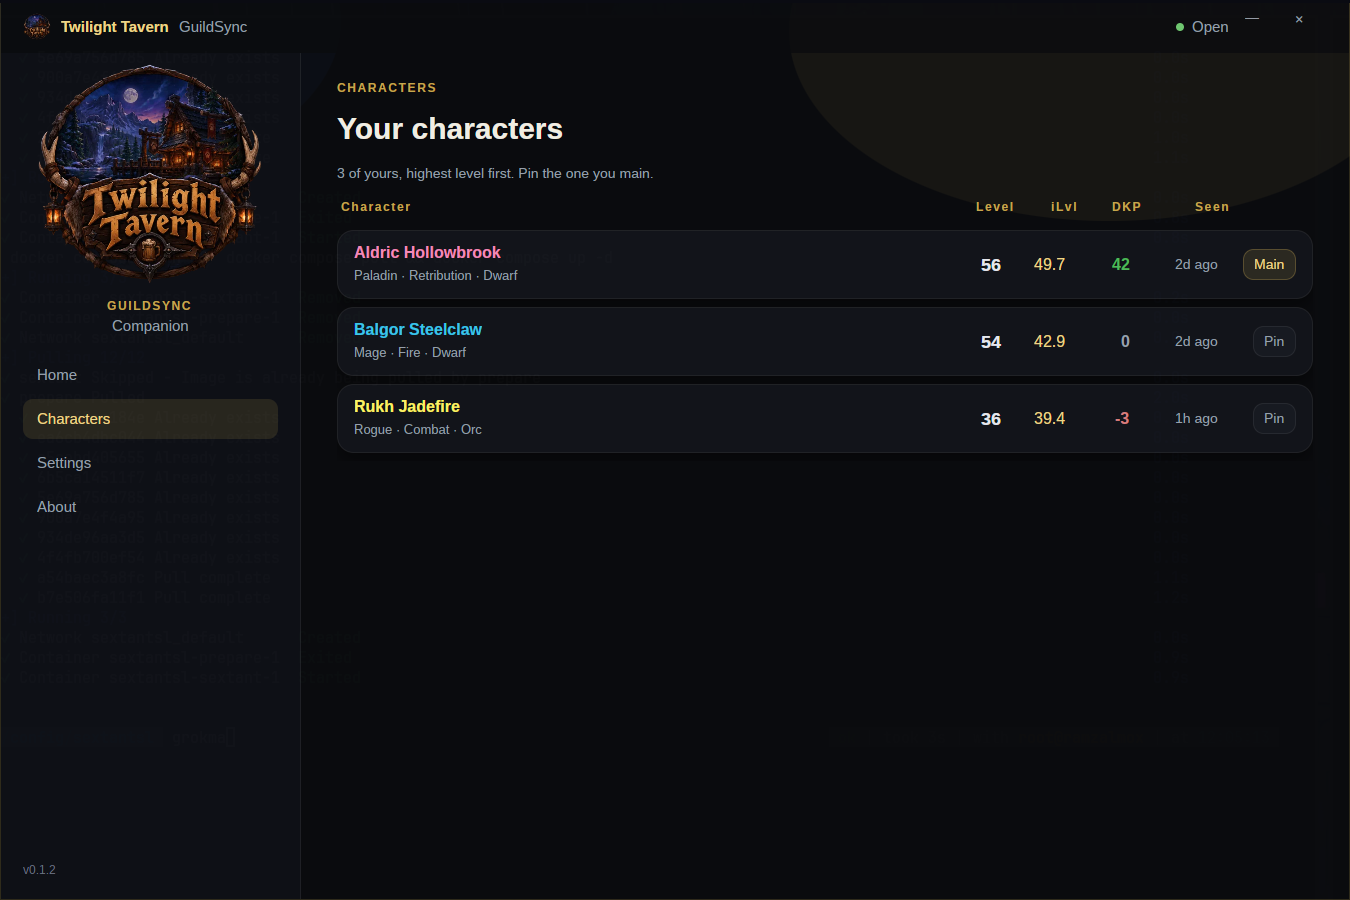
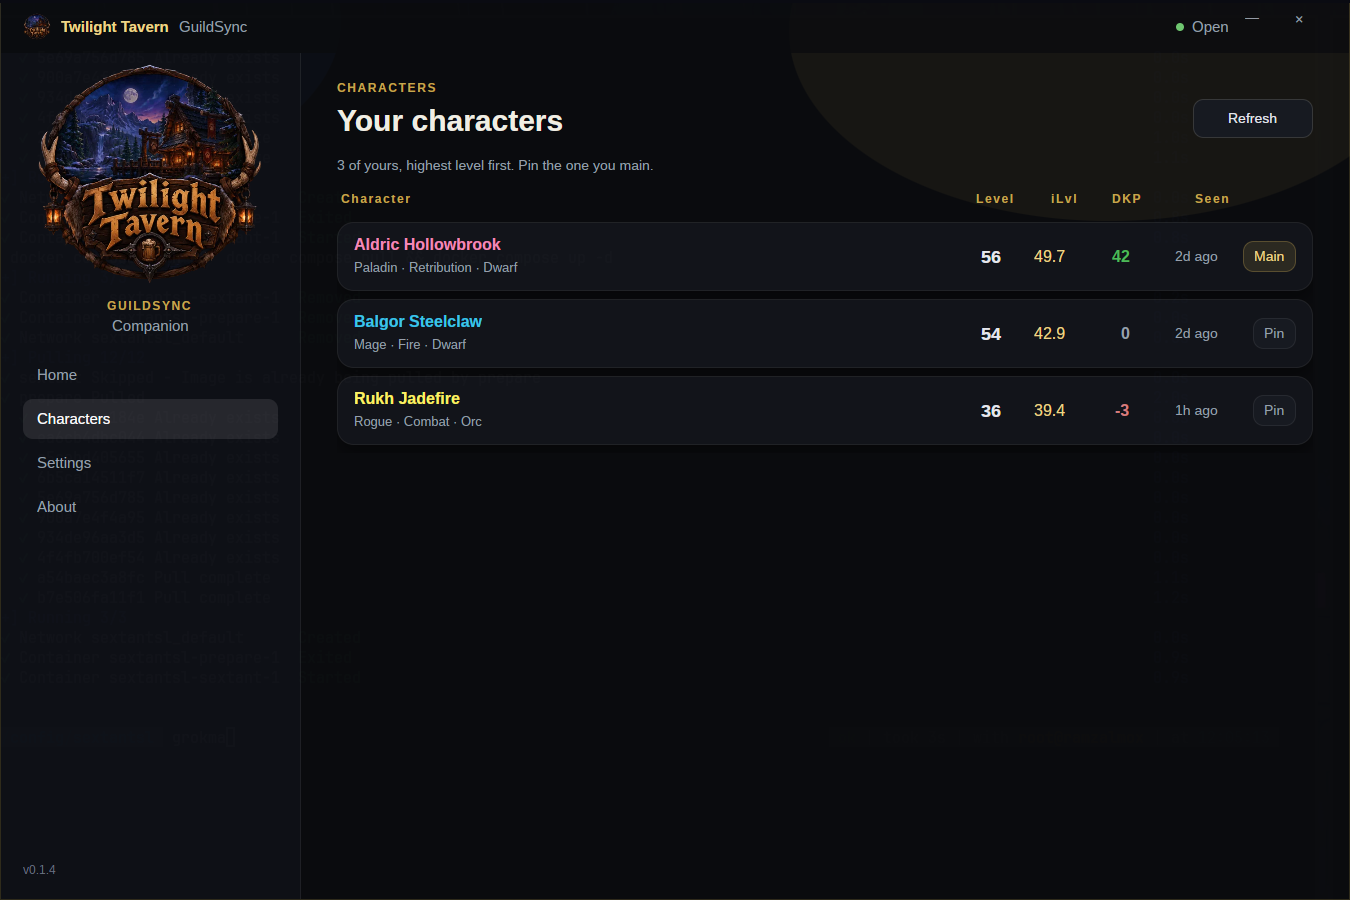
Refresh characters after a sync

diff --git a/src/GuildSync.Companion/ViewModels/ShellViewModel.cs b/src/GuildSync.Companion/ViewModels/ShellViewModel.cs
@@ -18,6 +18,8 @@ public partial class ShellViewModel : ObservableObject
     private List<RosterCharacter> _owned = [];
     private string _ownedStatus = "";
     private int? _previewMainId = 1560;
+    private int _characterLoad;
+    private DateTimeOffset? _appliedSyncUtc;
 
     public ShellViewModel(CompanionHost host, bool showOnLaunch)
     {
@@ -51,7 +53,7 @@ public partial class ShellViewModel : ObservableObject
         if (preview == "update")
         {
             UpdatePromptOpen = true;
-            UpdatePromptDetail = "Companion 0.1.5 is ready. GuildSync will close, install, and open again.";
+            UpdatePromptDetail = "Companion 0.1.6 is ready. GuildSync will close, install, and open again.";
         }
         if (preview == "characters")
             LoadCharacterPreview();
@@ -103,6 +105,7 @@ public partial class ShellViewModel : ObservableObject
     [ObservableProperty] private bool startWithWindows = true;
     [ObservableProperty] private string settingsMessage = "";
     [ObservableProperty] private string charactersStatus = "";
+    [ObservableProperty] private bool charactersBusy;
     [ObservableProperty] private bool updatePromptOpen;
     [ObservableProperty] private bool updatePromptBusy;
     [ObservableProperty] private string updatePromptDetail = "";
@@ -345,8 +348,11 @@ public partial class ShellViewModel : ObservableObject
 
         Page = "characters";
         Dialogs?.ShowWindow();
-        await LoadCharactersAsync().ConfigureAwait(true);
+        await LoadCharactersAsync(keepOnError: false).ConfigureAwait(true);
     }
+
+    [RelayCommand]
+    private Task RefreshCharactersAsync() => LoadCharactersAsync(keepOnError: _owned.Count > 0);
 
     [RelayCommand]
     private void ShowSettings()
@@ -659,6 +665,15 @@ public partial class ShellViewModel : ObservableObject
         Activity.Clear();
         foreach (var line in _host.ActivitySnapshot())
             Activity.Add(line);
+
+        // A sync just landed and this page is open. Pick up level, DKP, and last seen.
+        if (Page == "characters"
+            && !CharactersBusy
+            && _host.LastSyncUtc is { } synced
+            && synced != _appliedSyncUtc)
+        {
+            _ = LoadCharactersAsync(keepOnError: true);
+        }
     }
 
     private void PinCharacter(int id)
@@ -682,15 +697,19 @@ public partial class ShellViewModel : ObservableObject
         ShowOwned();
     }
 
-    private async Task LoadCharactersAsync()
+    private async Task LoadCharactersAsync(bool keepOnError)
     {
+        var gen = ++_characterLoad;
+        var seenSync = _host?.LastSyncUtc;
         if (_preview || _host is null)
         {
             LoadCharacterPreview();
+            _appliedSyncUtc = seenSync;
             return;
         }
 
-        CharactersStatus = "Pulling your characters...";
+        CharactersBusy = true;
+        CharactersStatus = _owned.Count > 0 ? "Refreshing..." : "Pulling your characters...";
         var token = _host.Config.Token;
         try
         {
@@ -699,27 +718,29 @@ public partial class ShellViewModel : ObservableObject
             var rosterTask = roster.GetAsync(token);
             var meTask = ingest.CheckTokenAsync(token);
             await Task.WhenAll(rosterTask, meTask).ConfigureAwait(true);
+            if (gen != _characterLoad)
+                return;
             var (status, body) = await rosterTask.ConfigureAwait(true);
             var me = await meTask.ConfigureAwait(true);
 
             if (me.Status == "invalid")
             {
-                ClearCharacters("That token doesn't belong to a member. Check it in Settings.");
+                FailCharacters("That token doesn't belong to a member. Check it in Settings.", keepOnError);
                 return;
             }
             if (me.Status == "error" || status == 0)
             {
-                ClearCharacters("Couldn't reach the tavern. Try again in a bit.");
+                FailCharacters("Couldn't reach the tavern. Try again in a bit.", keepOnError);
                 return;
             }
             if (string.IsNullOrWhiteSpace(me.Name))
             {
-                ClearCharacters("We couldn't tell which account this token belongs to.");
+                FailCharacters("We couldn't tell which account this token belongs to.", keepOnError);
                 return;
             }
             if (status != 200)
             {
-                ClearCharacters("The tavern didn't send your characters.");
+                FailCharacters("The tavern didn't send your characters.", keepOnError);
                 return;
             }
 
@@ -730,7 +751,7 @@ public partial class ShellViewModel : ObservableObject
             }
             catch (System.Text.Json.JsonException)
             {
-                ClearCharacters("The roster didn't look right.");
+                FailCharacters("The roster didn't look right.", keepOnError);
                 return;
             }
 
@@ -745,6 +766,8 @@ public partial class ShellViewModel : ObservableObject
 
             var withDkp = new RosterCharacter[mine.Count];
             await Task.WhenAll(mine.Select((character, index) => FillDkpAsync(roster, character, withDkp, index))).ConfigureAwait(true);
+            if (gen != _characterLoad)
+                return;
             _owned = withDkp.ToList();
             _ownedStatus = mine.Count == 1
                 ? "1 of yours. Pin it if this is the character you main."
@@ -753,7 +776,19 @@ public partial class ShellViewModel : ObservableObject
         }
         catch (Exception ex) when (ex is HttpRequestException or TaskCanceledException or IOException)
         {
-            ClearCharacters("Couldn't reach the tavern. Try again in a bit.");
+            if (gen != _characterLoad)
+                return;
+            FailCharacters("Couldn't reach the tavern. Try again in a bit.", keepOnError);
+        }
+        finally
+        {
+            if (gen == _characterLoad)
+            {
+                CharactersBusy = false;
+                _appliedSyncUtc = _host?.LastSyncUtc;
+                if (Page == "characters" && _host?.LastSyncUtc is { } now && now != seenSync)
+                    _ = LoadCharactersAsync(keepOnError: true);
+            }
         }
     }
 
@@ -774,6 +809,16 @@ public partial class ShellViewModel : ObservableObject
         ];
         _ownedStatus = "3 of yours, highest level first. Pin the one you main.";
         ShowOwned();
+    }
+
+    private void FailCharacters(string status, bool keepOnError)
+    {
+        if (keepOnError && _owned.Count > 0)
+        {
+            CharactersStatus = status;
+            return;
+        }
+        ClearCharacters(status);
     }
 
     private void ClearCharacters(string status)

diff --git a/src/GuildSync.Core/AppConstants.cs b/src/GuildSync.Core/AppConstants.cs
@@ -8,7 +8,7 @@ namespace GuildSync.Core;
 /// </summary>
 public static class AppConstants
 {
-    public const string Version = "0.1.4";
+    public const string Version = "0.1.5";
     public const string AppName = "GuildSync Companion";
     public const string UserAgent = "GuildSync-Companion-Windows/" + Version;
 

diff --git a/README.md b/README.md
@@ -10,7 +10,7 @@ Same idea as the [Linux tray app](https://forgejo.fifthdread.com/Fifthdread/guil
 
 ## Grab it and go
 
-Download [GuildSyncCompanion-Setup.exe](https://forgejo.fifthdread.com/Ramzal/guildsync-companion-windows/releases/download/v0.1.4/GuildSyncCompanion-Setup.exe) and double-click it.
+Download [GuildSyncCompanion-Setup.exe](https://forgejo.fifthdread.com/Ramzal/guildsync-companion-windows/releases/download/v0.1.5/GuildSyncCompanion-Setup.exe) and double-click it.
 
 1. Click **Install**, then **Finish**. No admin password. It installs just for your Windows account and drops a shortcut on the desktop and in the Start menu.
 2. The app opens. Go to the [upload page](https://twilighttavern.co/upload), log in with Discord, and copy your upload token.
@@ -30,7 +30,7 @@ Want it gone? Start menu, GuildSync Companion, Uninstall. Or Settings, Apps. You
 - Keeps an eye on things while the game is open. When you log out, one last sync, then it waits.
 - Installs and updates the GuildSync addon from our Forgejo repo, and only inside `Interface\AddOns\GuildSync`.
 - **Check for updates** is on Home, in Settings, and in the tray menu. Opening the app checks the addon and the app on its own. A newer addon is installed in place. A newer app asks first. Say yes and it closes, installs, and opens the window again. With automatic addon updates on, it looks for a new addon again about every 24 hours while it is running.
-- **Characters** sits under Home. It is only the characters tied to your upload token, not the whole guild. You get the class-colored name, spec, race, level, item level, DKP, and when they were last seen. Click a name to open that character on the site. Pin the one you main and it stays at the top.
+- **Characters** sits under Home. It is only the characters tied to your upload token, not the whole guild. You get the class-colored name, spec, race, level, item level, DKP, and when they were last seen. Click a name to open that character on the site. Pin the one you main and it stays at the top. A sync refreshes the list while you are looking at it. Refresh tries again if the tavern was unreachable.
 
 ![Your characters](docs/characters.png)
 
